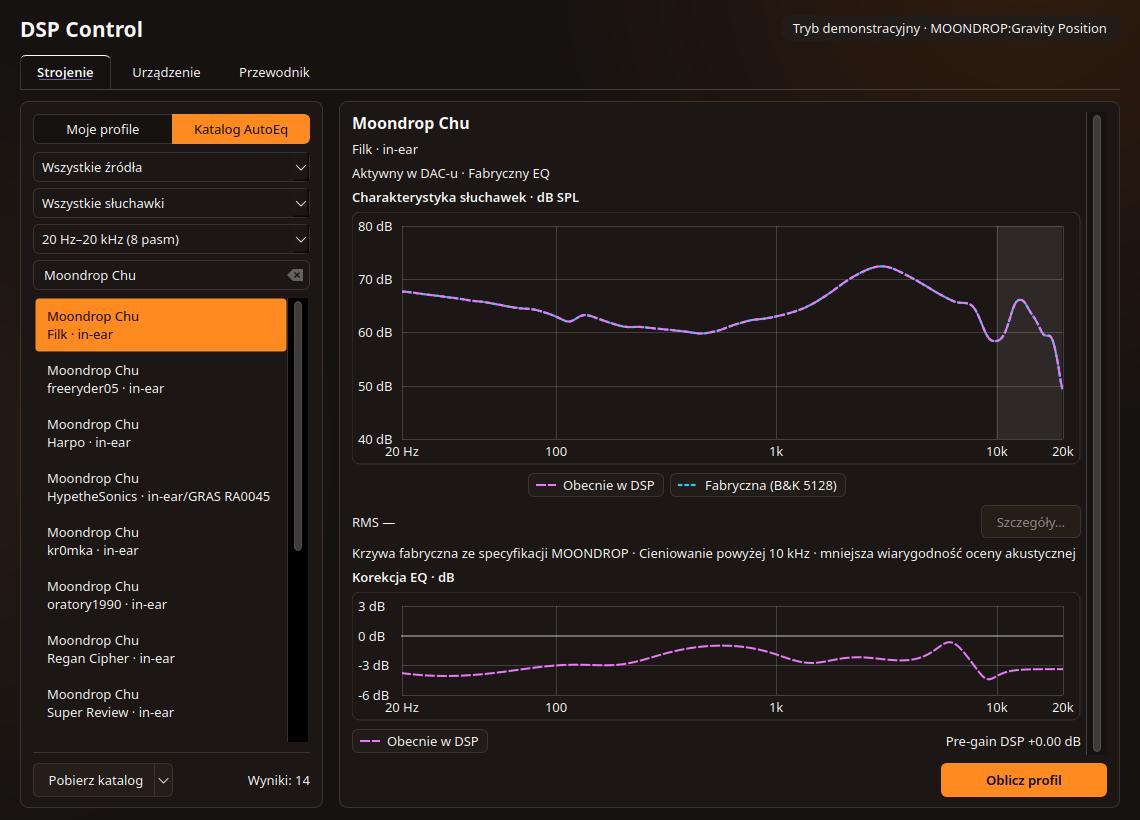
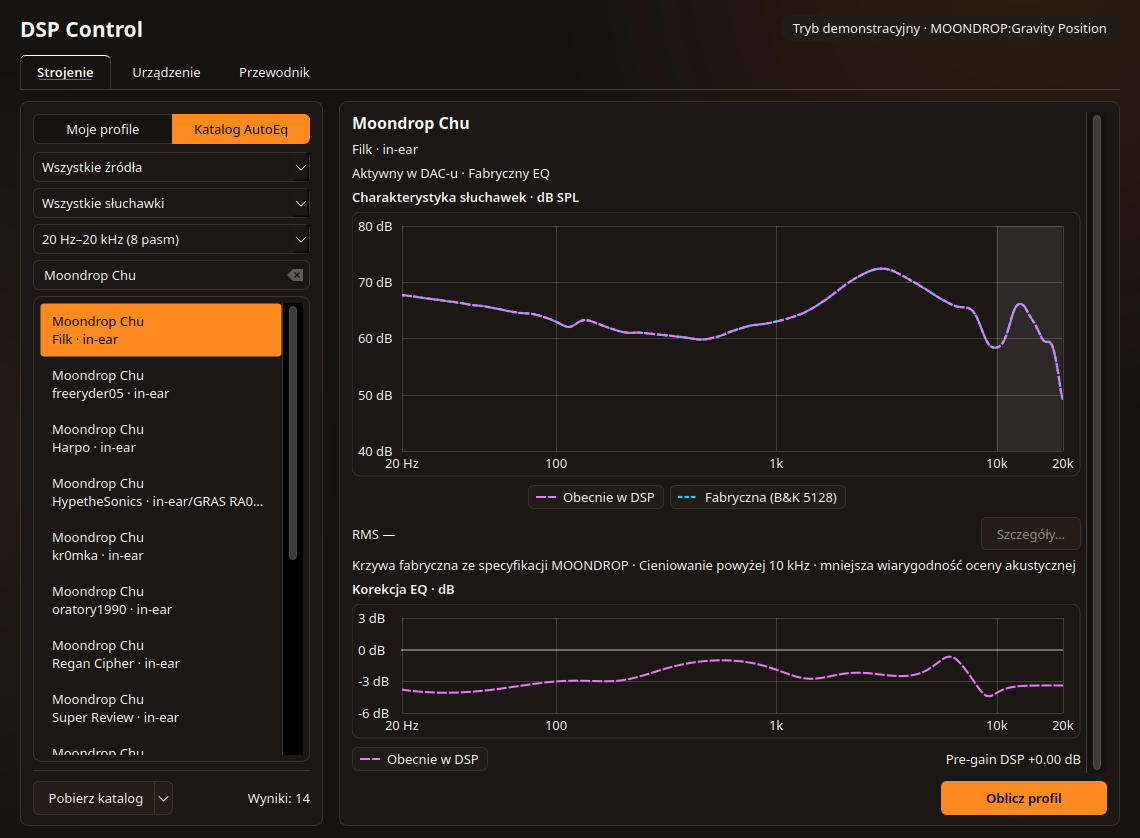
Keep catalog status inside the list frame

diff --git a/skrypty/position_gui.py b/skrypty/position_gui.py
@@ -304,7 +304,7 @@ QSplitter::handle {
 QSplitter::handle:hover, QSplitter::handle:pressed {
     background: palette(alternate-base);
 }
-QFrame#sourceCard, QFrame#previewCard {
+QFrame#sourceCard, QFrame#previewCard, QFrame#catalogList {
     border: 1px solid palette(mid);
     border-radius: 8px;
     background: palette(base);
@@ -2703,14 +2703,21 @@ class AutoEqPanel(QWidget):
         self.targets.setAccessibleName(tr("autoeq.target_list"))
         self.targets.setHorizontalScrollBarPolicy(Qt.ScrollBarPolicy.ScrollBarAlwaysOff)
         self.targets.setTextElideMode(Qt.TextElideMode.ElideRight)
-        layout.addWidget(self.targets, 1)
+        self.catalog_list = QFrame()
+        self.catalog_list.setObjectName("catalogList")
+        list_layout = QVBoxLayout(self.catalog_list)
+        list_layout.setContentsMargins(4, 4, 4, 4)
+        list_layout.setSpacing(2)
+        list_layout.addWidget(self.targets, 1)
+        layout.addWidget(self.catalog_list, 1)
 
         self.status = self.text_label()
         self.status.setWordWrap(False)
         self.catalog_progress = FeedbackLabel()
         self.catalog_progress.setTextFormat(Qt.TextFormat.PlainText)
         self.catalog_progress.setWordWrap(True)
-        layout.addWidget(self.catalog_progress)
+        self.catalog_progress.setContentsMargins(8, 3, 8, 3)
+        list_layout.addWidget(self.catalog_progress)
         self.catalog_error_detail = ""
         self.catalog_error = QLabel()
         self.catalog_error.setTextFormat(Qt.TextFormat.RichText)
@@ -2727,7 +2734,7 @@ class AutoEqPanel(QWidget):
         )
         self.catalog_error.linkActivated.connect(self.report_catalog_error)
         self.catalog_error.hide()
-        layout.addWidget(self.catalog_error)
+        list_layout.addWidget(self.catalog_error)
         layout.addWidget(self.fit_provenance)
         self.fit_status = FeedbackLabel()
         self.fit_status.setTextFormat(Qt.TextFormat.PlainText)

diff --git a/tests/test_gui_smoke.py b/tests/test_gui_smoke.py
@@ -499,7 +499,8 @@ def test_tuning_plots_keep_geometry_with_dynamic_scale(tmp_path: Path, monkeypat
         window.source_group.button(1).click()
         panel = window.autoeq_panel
         QTest.qWait(40)
-        assert panel.source_filter.y() < panel.mode.y() < panel.fit_controls.y() < panel.search.y() < panel.targets.y()
+        assert panel.source_filter.y() < panel.mode.y() < panel.fit_controls.y() < panel.search.y()
+        assert panel.search.y() < panel.catalog_list.y()
         assert panel.catalog_button.height() == add_button_height
         assert panel.catalog_button.mapTo(window, QPoint()).y() == add_button_y
         assert panel.status.x() > panel.catalog_button.geometry().right()
@@ -509,12 +510,16 @@ def test_tuning_plots_keep_geometry_with_dynamic_scale(tmp_path: Path, monkeypat
             QTest.qWait(20)
             assert panel.catalog_progress.isVisible() and panel.catalog_progress.wordWrap()
             assert panel.catalog_progress.text() == gui.tr("autoeq.loading_catalog")
+            assert panel.catalog_progress.parentWidget() is panel.catalog_list
+            assert panel.catalog_list.contentsRect().contains(panel.catalog_progress.geometry())
             assert not panel.status.text()
         panel.catalog_downloaded(None, "GitHub API zwróciło błąd HTTP 403.")
         QTest.qWait(20)
         assert not panel.catalog_progress.isVisible()
         assert panel.catalog_error.isVisible()
-        assert panel.catalog_error.geometry().right() <= panel.rect().right()
+        assert panel.catalog_error.parentWidget() is panel.catalog_list
+        assert panel.catalog_list.contentsRect().contains(panel.catalog_error.geometry())
+        assert panel.targets.geometry().bottom() < panel.catalog_error.geometry().top()
         assert panel.catalog_error.accessibleName() == "Błąd"
         assert "HTTP 403" in panel.catalog_error.toolTip()
         opened = []
